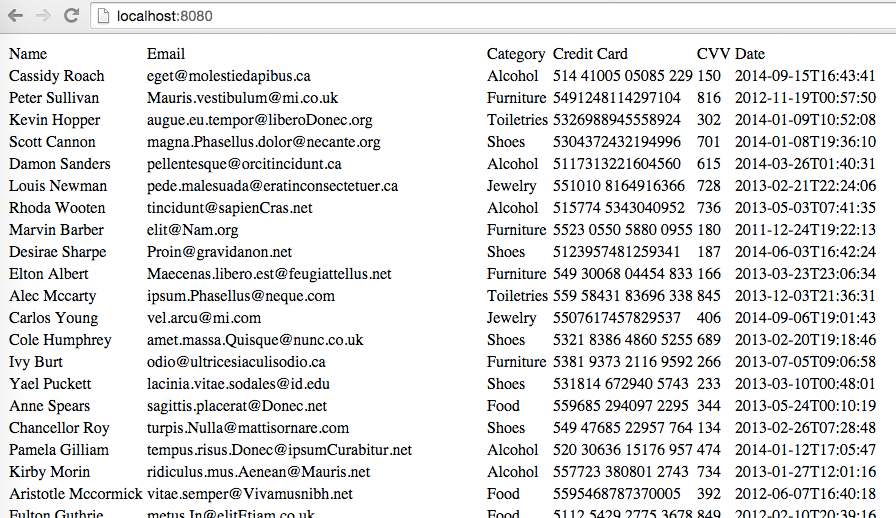
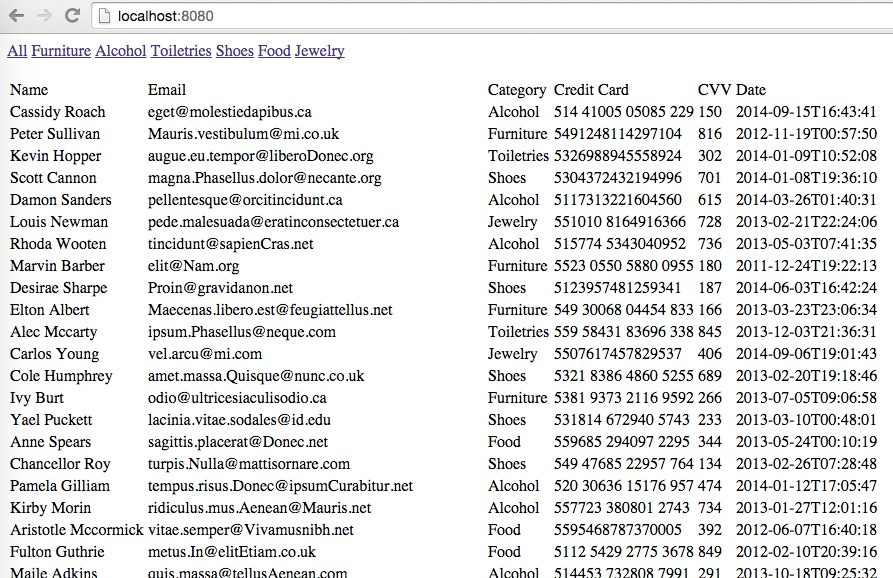
Update 6.3

diff --git a/6.3-orm-omg/README.md b/6.3-orm-omg/README.md
@@ -38,6 +38,6 @@ Parse the two csv files and store them PostgreSQL via Spring Data. Then display 
   * In `PurchaseRepository`, add a method that finds `Purchase` objects by category
   * Modify your `/` route to take a `category` parameter
   * If the parameter isn't null, call the method you made instead of `findAll`
-  * For example, if I go to `http://localhost:8080/?category=Jewelry` I should only see the jewelry results
+  * Displays links at the top that allow you to filter by each category
 
 ![screenshot](screenshot.png)
